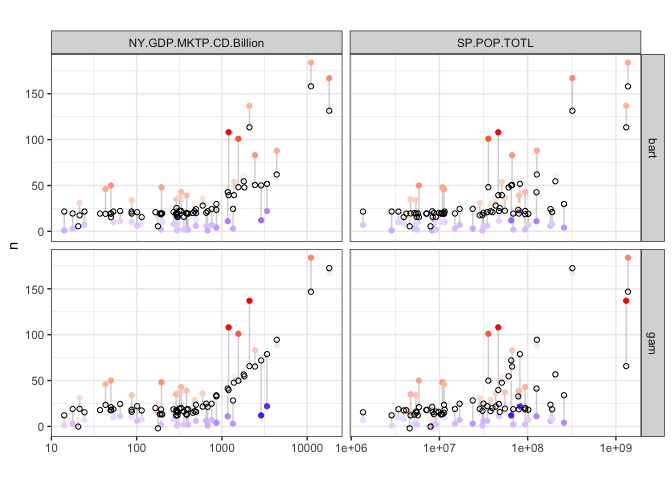
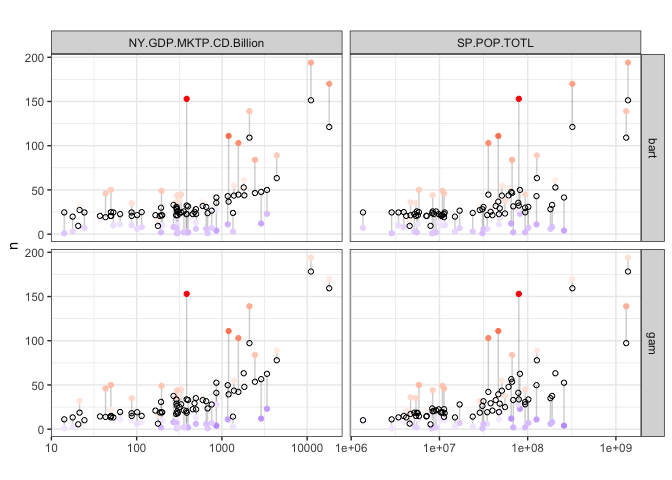
GAM family set to quasipoisson.  Removing offset from GAM formula for now b/c not getting along with predict().  Addresses issue #1.

diff --git a/01-country-analysis.md b/01-country-analysis.md
@@ -1,7 +1,7 @@
 exploratory\_analysis
 ================
 emmamendelsohn
-Tue Feb 5 07:50:59 2019
+Tue Feb 5 14:59:10 2019
 
 —————–View Data—————–
 
@@ -10,51 +10,36 @@ Tue Feb 5 07:50:59 2019
 —————–Fit GAM—————–
 
     ## 
-    ## Family: gaussian 
-    ## Link function: identity 
+    ## Family: quasipoisson 
+    ## Link function: log 
     ## 
     ## Formula:
-    ## n ~ +s(log(NY.GDP.MKTP.CD.Billion)) + continent + offset(log(SP.POP.TOTL))
+    ## n ~ s(log(NY.GDP.MKTP.CD.Billion)) + continent + s(log(SP.POP.TOTL))
     ## 
     ## Parametric coefficients:
-    ##                   Estimate Std. Error t value Pr(>|t|)  
-    ## (Intercept)         16.945      9.241   1.834   0.0724 .
-    ## continentAmericas   -3.501     12.503  -0.280   0.7806  
-    ## continentAsia       -1.871     11.075  -0.169   0.8665  
-    ## continentEurope     -4.928     10.881  -0.453   0.6525  
-    ## continentOceania   -19.670     17.389  -1.131   0.2632  
+    ##                   Estimate Std. Error t value Pr(>|t|)    
+    ## (Intercept)         3.1546     0.4348   7.255 1.71e-09 ***
+    ## continentAmericas   0.1848     0.5374   0.344    0.732    
+    ## continentAsia       0.1848     0.4622   0.400    0.691    
+    ## continentEurope     0.1495     0.5439   0.275    0.784    
+    ## continentOceania   -0.7720     1.1350  -0.680    0.499    
     ## ---
     ## Signif. codes:  0 '***' 0.001 '**' 0.01 '*' 0.05 '.' 0.1 ' ' 1
     ## 
     ## Approximate significance of smooth terms:
-    ##                                  edf Ref.df     F  p-value    
-    ## s(log(NY.GDP.MKTP.CD.Billion)) 3.781  4.661 16.85 1.18e-10 ***
+    ##                                 edf Ref.df     F p-value  
+    ## s(log(NY.GDP.MKTP.CD.Billion)) 1.73  2.157 2.580   0.079 .
+    ## s(log(SP.POP.TOTL))            1.00  1.000 2.122   0.151  
     ## ---
     ## Signif. codes:  0 '***' 0.001 '**' 0.01 '*' 0.05 '.' 0.1 ' ' 1
     ## 
-    ## R-sq.(adj) =  0.589   Deviance explained = 62.7%
-    ## -REML = 266.45  Scale est. = 638.91    n = 61
+    ## R-sq.(adj) =  0.521   Deviance explained = 46.5%
+    ## -REML =  129.6  Scale est. = 27.163    n = 61
 
-    ##               para s(log(NY.GDP.MKTP.CD.Billion))
-    ## worst    0.8798633                     0.25583262
-    ## observed 0.8798633                     0.05650447
-    ## estimate 0.8798633                     0.07486232
-
-![](01-country-analysis_files/figure-gfm/r%20mod-gam-1.png)<!-- -->
-
-    ## 
-    ## Method: REML   Optimizer: outer newton
-    ## full convergence after 5 iterations.
-    ## Gradient range [-2.803122e-06,1.696311e-06]
-    ## (score 266.4469 & scale 638.9059).
-    ## Hessian positive definite, eigenvalue range [0.9768977,27.5729].
-    ## Model rank =  14 / 14 
-    ## 
-    ## Basis dimension (k) checking results. Low p-value (k-index<1) may
-    ## indicate that k is too low, especially if edf is close to k'.
-    ## 
-    ##                                  k'  edf k-index p-value
-    ## s(log(NY.GDP.MKTP.CD.Billion)) 9.00 3.78    1.01    0.47
+    ##               para s(log(NY.GDP.MKTP.CD.Billion)) s(log(SP.POP.TOTL))
+    ## worst    0.9184685                      0.7531111           0.7515322
+    ## observed 0.9184685                      0.6850108           0.7064940
+    ## estimate 0.9184685                      0.5503579           0.5959985
 
 —————–Fit BART—————–
 
@@ -66,14 +51,14 @@ Tue Feb 5 07:50:59 2019
     ##  k: 2.000000
     ##  degrees of freedom in sigma prior: 3.000000
     ##  quantile in sigma prior: 0.900000
-    ##  scale in sigma prior: 0.003174
+    ##  scale in sigma prior: 0.004605
     ##  power and base for tree prior: 2.000000 0.950000
     ##  use quantiles for rule cut points: false
     ## data:
     ##  number of training observations: 61
     ##  number of test observations: 0
     ##  number of explanatory variables: 7
-    ##  init sigma: 23.361497, curr sigma: 23.361497
+    ##  init sigma: 29.673385, curr sigma: 29.673385
     ## 
     ## Cutoff rules c in x<=c vs x>c
     ## Number of cutoffs: (var: number of possible c):
@@ -90,24 +75,24 @@ Tue Feb 5 07:50:59 2019
     ## iteration: 800 (of 1000)
     ## iteration: 900 (of 1000)
     ## iteration: 1000 (of 1000)
-    ## total seconds in loop: 0.874078
+    ## total seconds in loop: 0.827340
     ## 
     ## Tree sizes, last iteration:
-    ## [1] 2 2 2 2 2 2 2 2 2 2 2 3 2 2 2 2 2 3 
-    ## 2 2 2 3 2 3 2 2 2 2 2 2 4 2 2 1 2 2 2 2 
-    ## 2 2 2 2 3 2 2 2 2 2 2 3 2 3 2 3 2 2 2 1 
-    ## 2 2 2 2 2 2 1 4 2 2 2 2 2 1 2 2 2 2 3 3 
-    ## 2 2 3 2 2 2 3 3 2 2 3 2 2 2 2 2 2 3 3 3 
-    ## 2 3 3 2 2 2 2 2 3 2 3 3 2 2 3 2 2 2 2 2 
-    ## 2 3 1 2 2 3 3 2 3 3 3 3 2 2 2 1 2 2 1 2 
-    ## 1 2 2 2 2 2 2 2 2 2 2 2 2 3 3 2 2 2 2 2 
-    ## 2 2 2 2 4 2 2 2 3 1 2 2 2 2 2 3 2 2 2 4 
-    ## 2 2 1 2 3 2 2 2 3 1 2 2 2 2 2 2 2 3 2 2 
-    ## 2 1 
+    ## [1] 2 2 3 1 2 2 2 3 3 2 2 2 2 2 2 2 2 3 
+    ## 2 2 2 2 2 2 2 2 2 2 2 2 3 4 2 3 2 2 2 2 
+    ## 3 2 2 3 2 2 2 2 3 2 2 2 2 2 2 2 1 1 2 1 
+    ## 2 2 2 3 3 2 1 2 3 2 2 2 2 2 3 2 2 3 1 2 
+    ## 3 2 2 3 2 3 2 2 3 2 2 2 2 2 3 2 1 2 2 2 
+    ## 3 2 2 2 2 2 3 2 3 2 2 4 2 2 2 2 2 1 3 2 
+    ## 3 2 2 2 2 2 2 2 4 2 3 2 3 2 2 2 3 1 2 3 
+    ## 3 3 3 2 1 2 2 2 2 2 2 1 2 2 2 2 2 1 2 2 
+    ## 2 2 2 2 2 2 2 2 2 2 2 3 3 2 2 2 3 2 2 2 
+    ## 2 3 2 2 2 2 3 2 2 2 2 2 3 2 2 2 2 2 2 2 
+    ## 2 4 
     ## 
     ## Variable Usage, last iteration (var:count):
-    ## (1: 40) (2: 24) (3: 28) (4: 36) (5: 31) 
-    ## (6: 37) (7: 37) 
+    ## (1: 46) (2: 33) (3: 29) (4: 27) (5: 25) 
+    ## (6: 35) (7: 38) 
     ## DONE BART
 
     ##                 Length Class         Mode   
@@ -128,12 +113,12 @@ Tue Feb 5 07:50:59 2019
     ## # A tibble: 2 x 2
     ##   model mean_residuals
     ##   <chr>          <dbl>
-    ## 1 bart            16.8
-    ## 2 gam             17.2
+    ## 1 bart            21.4
+    ## 2 gam             20.1
 
-    ##              n       gam     bart
-    ## n    1.0000000 0.8017514 0.866129
-    ## gam  0.8017514 1.0000000 0.929888
-    ## bart 0.8661290 0.9298880 1.000000
+    ##              n       gam      bart
+    ## n    1.0000000 0.7597727 0.7818966
+    ## gam  0.7597727 1.0000000 0.9773458
+    ## bart 0.7818966 0.9773458 1.0000000
 
 ![](01-country-analysis_files/figure-gfm/r%20mod-comp-1.png)<!-- -->![](01-country-analysis_files/figure-gfm/r%20mod-comp-2.png)<!-- -->![](01-country-analysis_files/figure-gfm/r%20mod-comp-3.png)<!-- -->
